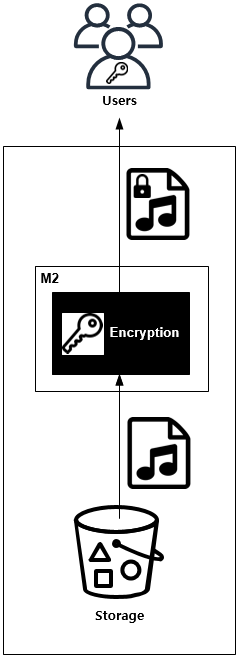
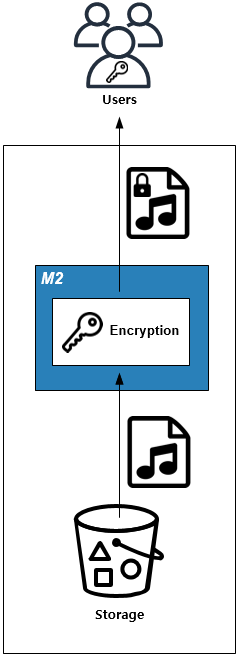
1
1

Changed region(s): [[0.1176, 0.0, 0.8824, 0.9451], [0.0294, 0.2134, 1.0, 1.0], [0.6765, 0.2439, 0.8235, 0.3659]]

diff --git a/patterns/pattern_image.rst b/patterns/pattern_image.rst
@@ -27,13 +27,13 @@
 .. figure:: img/dgm007.png
    :align: center
 
-``STON`` 을 통해 원본 이미지를 원하는 형태로 실시간 가공하여 전달한다.
+``M2`` 를 통해 원본 이미지를 원하는 형태로 실시간 가공하여 전달한다.
 
 
 구현
 ------------------------------------
--  이미지 스토리지 앞에 이미지 변환서버 용도의 ``STON`` 을 배치한다.
--  ``STON`` 이미지툴 기능을 활성화한다. ::
+-  이미지 스토리지 앞에 이미지 변환서버 용도의 ``M2`` 를 배치한다.
+-  ``M2`` 이미지툴 기능을 활성화한다. ::
    
       # server.xml - <Server><VHostDefault><Options>
       # vhosts.xml - <Vhosts><Vhost><Options>
@@ -54,12 +54,12 @@
 
 주의점
 ------------------------------------
-``STON`` 최대 처리가능 이미지 용량(기본 10MB)을 넘거나 비정상 원본이라면 가공하지 않고 원본을 전송한다.
+``M2`` 최대 처리가능 이미지 용량(기본 10MB)을 넘거나 비정상 원본이라면 가공하지 않고 원본을 전송한다.
 
 
 기타
 ------------------------------------
-이미 사용중인 URL 패턴이 있다면 ``STON`` 커스터마이징 모듈을 통해 호환성을 확보한다.
+이미 사용중인 URL 패턴이 있다면 커스터마이징 모듈을 통해 호환성을 확보한다.
 
 
 
@@ -88,8 +88,8 @@
 
 구현
 ------------------------------------
--  이미지 스토리지 앞에 이미지 변환서버 용도의 ``STON`` 을 배치한다.
--  ``STON`` 이미지툴 기능을 활성화한다. (최대크기를 제한하지 않는다.) ::
+-  이미지 스토리지 앞에 ``M2`` 를 배치한다.
+-  ``M2`` 이미지툴 기능을 활성화한다. (최대크기를 제한하지 않는다.) ::
    
       # server.xml - <Server><VHostDefault><Options>
       # vhosts.xml - <Vhosts><Vhost><Options>
@@ -97,14 +97,14 @@
       <Dims Status="Active" Keyword="dims" MaxSourceSize="0" />
 
 
--  ``STON`` 이미지 포맷을 대상으로 URL 전처리 규칙을 추가한다. ::
+-  ``M2`` 이미지 포맷을 대상으로 URL 전처리 규칙을 추가한다. ::
 
       <URLRewrite>
          <Pattern>example.com/.*\.(jpg|png).*)</Pattern>
          <Replace>example.com/#1/dims/optimize</Replace>
       </URLRewrite>
 
--  이미지 스토리지 도메인을 ``STON`` 으로 위임한다. 
+-  이미지 스토리지 도메인을 ``M2`` 로 위임한다. 
 
 
 장점/효과
@@ -154,8 +154,8 @@
 
 구현
 ------------------------------------
--  이미지 스토리지 앞에 이미지 변환서버 용도의 ``STON`` 을 배치한다.
--  ``STON`` 이미지툴 `원본이미지 조건판단 <https://ston.readthedocs.io/ko/latest/admin/image.html#media-dims-byoriginal>`_ 을 설정한다. (최대 가로 1200px) ::
+-  이미지 스토리지 앞에 이미지 변환서버 용도의 ``M2`` 을 배치한다.
+-  ``M2`` 이미지툴 `원본이미지 조건판단 <https://ston.readthedocs.io/ko/latest/admin/image.html#media-dims-byoriginal>`_ 을 설정한다. (최대 가로 1200px) ::
    
       # server.xml - <Server><VHostDefault><Options>
       # vhosts.xml - <Vhosts><Vhost><Options>
@@ -168,7 +168,7 @@
       </Dims>
 
 
--  ``STON`` 다음과 같이 URL을 노출한다. ::
+-  ``M2`` 다음과 같이 URL을 노출한다. ::
 
        http://image.example.com/koala.jpg/dims/byoriginal/limit-1200
 
@@ -242,7 +242,7 @@
       </html>
 
 
--  ``M2/STON`` 이미지처리용 가상호스트를 생성하고 이미지툴 기능을 활성화한다. ::
+-  ``M2`` 이미지처리용 가상호스트를 생성하고 이미지툴 기능을 활성화한다. ::
    
       # vhosts.xml - <Vhosts>
 
@@ -253,7 +253,7 @@
       </Vhost>
 
 
--  ``M2/STON`` 이미지처리 경로 ``/m2/image/`` 가 ``image.example.com`` 을 찾아갈 수 있도록 `URL 전처리 <https://ston.readthedocs.io/ko/latest/admin/adv_vhost.html#url>`_ 를 구성한다. ::
+-  ``M2`` 이미지처리 경로 ``/m2/image/`` 가 ``image.example.com`` 을 찾아갈 수 있도록 `URL 전처리 <https://ston.readthedocs.io/ko/latest/admin/adv_vhost.html#url>`_ 를 구성한다. ::
    
       # vhosts.xml
 

diff --git a/patterns/pattern_video.rst b/patterns/pattern_video.rst
@@ -20,7 +20,7 @@
 
 솔루션/패턴 설명
 ------------------------------------
-``STON`` 의 `MP4HLS <https://ston.readthedocs.io/ko/latest/admin/video.html#mp4-hls>`_ 기능을 이용해 실시간으로 MP4영상을 HLS로 가공하여 전송한다.
+``M2`` 의 `MP4HLS <https://ston.readthedocs.io/ko/latest/admin/video.html#mp4-hls>`_ 기능을 이용해 실시간으로 MP4영상을 HLS로 가공하여 전송한다.
 
 .. figure:: img/dgm011.png
    :align: center
@@ -28,8 +28,8 @@
 
 구현
 ------------------------------------
--  동영상 스토리지/서비스 앞에 ``STON`` 을 배치한다.
--  ``STON`` MP4HLS 기능을 활성화한다. ::
+-  동영상 스토리지/서비스 앞에 ``M2`` 를 배치한다.
+-  MP4HLS 기능을 활성화한다. ::
    
       # vhosts.xml - <Vhosts><Vhost><Media>
 
@@ -58,7 +58,7 @@
 
 기타
 ------------------------------------
-사용자가 동영상 전체를 시청하는 빈도가 낮다면 ``STON``  - `Range요청 <https://ston.readthedocs.io/ko/latest/admin/origin.html#range>`_ 기능을 이용해 스토리지/원본서버의 대역폭 소비를 최소화한다.
+사용자가 동영상 전체를 시청하는 빈도가 낮다면 `Range요청 <https://ston.readthedocs.io/ko/latest/admin/origin.html#range>`_ 기능을 이용해 스토리지/원본서버의 대역폭 소비를 최소화한다.
 
 
 
@@ -73,7 +73,7 @@
 
 솔루션/패턴 설명
 ------------------------------------
-``STON`` 의 `Multi-Trimming <https://ston.readthedocs.io/ko/latest/admin/video.html#multi-trimming>`_ 기능을 이용해 실시간으로 MP4영상을 편집한다.
+`Multi-Trimming <https://ston.readthedocs.io/ko/latest/admin/video.html#multi-trimming>`_ 기능을 이용해 실시간으로 MP4영상을 편집한다.
 
 .. figure:: img/dgm012.png
    :align: center
@@ -81,8 +81,8 @@
 
 구현
 ------------------------------------
--  동영상 스토리지/서비스 앞에 ``STON`` 을 배치한다.
--  ``STON`` `Multi-Trimming <https://ston.readthedocs.io/ko/latest/admin/video.html#multi-trimming>`_ 기능을 활성화한다. ::
+-  동영상 스토리지/서비스 앞에 ``M2`` 를 배치한다.
+-  `Multi-Trimming <https://ston.readthedocs.io/ko/latest/admin/video.html#multi-trimming>`_ 기능을 활성화한다. ::
    
       # server.xml - <Server><VHostDefault><Media>
       # vhosts.xml - <Vhosts><Vhost><Media>
@@ -103,7 +103,7 @@
 
 주의점
 ------------------------------------
-`ngx_http_mp4_module <http://nginx.org/en/docs/http/ngx_http_mp4_module.html>`_ 이나 `Mod-H264-Streaming-Testing-Version2 <http://h264.code-shop.com/trac/wiki/Mod-H264-Streaming-Testing-Version2>`_ 같은 사용방식을 원한다면 ``STON`` - `Trimming <https://ston.readthedocs.io/ko/latest/admin/video.html#trimming>`_ 을 사용한다.
+`ngx_http_mp4_module <http://nginx.org/en/docs/http/ngx_http_mp4_module.html>`_ 이나 `Mod-H264-Streaming-Testing-Version2 <http://h264.code-shop.com/trac/wiki/Mod-H264-Streaming-Testing-Version2>`_ 같은 사용방식을 원한다면 `Trimming <https://ston.readthedocs.io/ko/latest/admin/video.html#trimming>`_ 을 사용한다.
 
 
 기타

diff --git a/patterns/pattern_traffic.rst b/patterns/pattern_traffic.rst
@@ -29,8 +29,8 @@
 
 구현
 ------------------------------------
--  보호하고 싶은 서비스 앞에 ``STON`` 을 배치한다. (=HTTP 통신이 가능하다.)
--  ``STON`` 서비스(=가상호스트)별로 적절한 TTL을 설정한다. ::
+-  보호하고 싶은 서비스 앞에 ``M2`` 를 배치한다. (=HTTP 통신이 가능하다.)
+-  서비스(=가상호스트)별로 적절한 TTL을 설정한다. ::
    
       # server.xml - <Server><VHostDefault><Options>
       # vhosts.xml - <Vhosts><Vhost><Options>
@@ -43,7 +43,7 @@
           <Res5xx>5</Res5xx>
       </TTL>
 
--  ``STON`` 장애 상황에서 원본 오동작으로 ``4xx`` , ``5xx`` 응답이 올 수 있다. 
+-  장애 상황에서 원본 오동작으로 ``4xx`` , ``5xx`` 응답이 올 수 있다. 
    콘텐츠가 캐시에서 사라지지 않도록 `비정상 TTL연장 <https://ston.readthedocs.io/ko/latest/admin/caching_policy.html#id4>`_ 기능을 활성화시킨다. ::
 
       # server.xml - <Server><VHostDefault><Options>
@@ -55,7 +55,7 @@
 
 .. note::
 
-   ``STON`` 은 콘텐츠 갱신시점에 원본서버와 연결이 안되거나 전송지연이 발생할 경우 자동으로 TTL을 연장한다.
+   ``M2`` 는 콘텐츠 갱신시점에 원본서버와 연결이 안되거나 전송지연이 발생할 경우 자동으로 TTL을 연장한다.
 
 
 장점/효과
@@ -88,7 +88,7 @@
 
 솔루션/패턴 설명
 ------------------------------------
-``STON`` 은 동일한 1,000건의 요청에 대해 최초 1번만 압축하고 TTL 시간동안은 압축된 결과물을 전송한다.
+``M2`` 는 동일한 1,000건의 요청에 대해 최초 1번만 압축하고 TTL 시간동안은 압축된 결과물을 전송한다.
 
 .. figure:: img/dgm014.png
    :align: center
@@ -96,15 +96,15 @@
 
 구현
 ------------------------------------
--  서비스 앞에 ``STON`` 을 배치한다. (=HTTP 통신이 가능하다.)
--  ``STON`` 압축기능을 활성화한다. ::
+-  서비스 앞에 ``M2`` 를 배치한다. (=HTTP 통신이 가능하다.)
+-  압축기능을 활성화한다. ::
    
       # server.xml - <Server><VHostDefault><Options>
       # vhosts.xml - <Vhosts><Vhost><Options>
 
       <Compression Method="gzip" Level="6" SourceSize="2-2048">ON</Compression>
 
--  ``STON`` 압축대상을 지정한다. ::
+-  압축대상을 지정한다. ::
 
       # /svc/www.example.com/compression.txt
       # 구분자는 콤마( , ) 이다.

diff --git a/patterns/pattern_infra.rst b/patterns/pattern_infra.rst
@@ -21,7 +21,7 @@
 
 솔루션/패턴 설명
 ------------------------------------
-``STON`` 의 `가상호스트 링크 <https://ston.readthedocs.io/ko/latest/admin/adv_vhost.html#adv-vhost-link>`_ 기능을 이용해 물리적으로 분리된 엔드포인트를 연결한다.
+``M2`` 의 `가상호스트 링크 <https://ston.readthedocs.io/ko/latest/admin/adv_vhost.html#adv-vhost-link>`_ 기능을 이용해 물리적으로 분리된 엔드포인트를 연결한다.
 
 .. figure:: img/dgm008.png
    :align: center
@@ -29,8 +29,8 @@
 
 구현
 ------------------------------------
--  메인 스토리지/서비스 앞에 ``STON`` 을 배치한다.
--  ``STON`` 개별 가상호스트를 생성하고 가상호스트 링크이미지툴 기능을 활성화한다. ::
+-  메인 스토리지/서비스 앞에 ``M2`` 를 배치한다.
+-  개별 가상호스트를 생성하고 가상호스트 링크이미지툴 기능을 활성화한다. ::
    
       # vhosts.xml - <Vhosts>
 
@@ -195,7 +195,7 @@
 
 주의점
 ------------------------------------
-``STON`` 으로 구현한다면 `블럭캐싱과 데이터 무결성 <https://ston.readthedocs.io/ko/latest/admin/enterprise.html#enterprise-block>`_ 를 참고한다.
+`블럭캐싱과 데이터 무결성 <https://ston.readthedocs.io/ko/latest/admin/enterprise.html#enterprise-block>`_ 를 참고한다.
 
 
 기타

diff --git a/patterns/pattern_security.rst b/patterns/pattern_security.rst
@@ -31,8 +31,8 @@
 
 구현
 ------------------------------------
--  스토리지 앞에 ``STON`` 를 배치한다. (=HTTP 통신이 가능하다.)
--  ``STON`` On the fly DRM 기능을 활성화한다. ::
+-  스토리지 앞에 ``M2`` 를 배치한다. (=HTTP 통신이 가능하다.)
+-  On the fly DRM 기능을 활성화한다. ::
    
       $ server.xml - <Server><VHostDefault><Options>
       $ vhosts.xml - <Vhosts><Vhost><Options>
